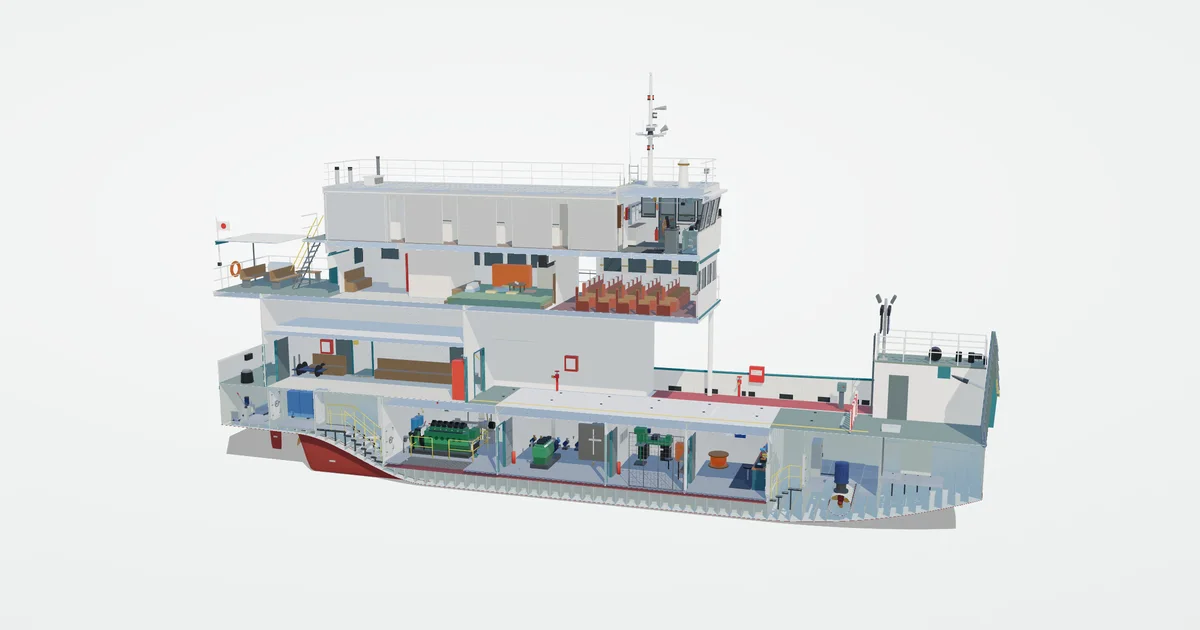
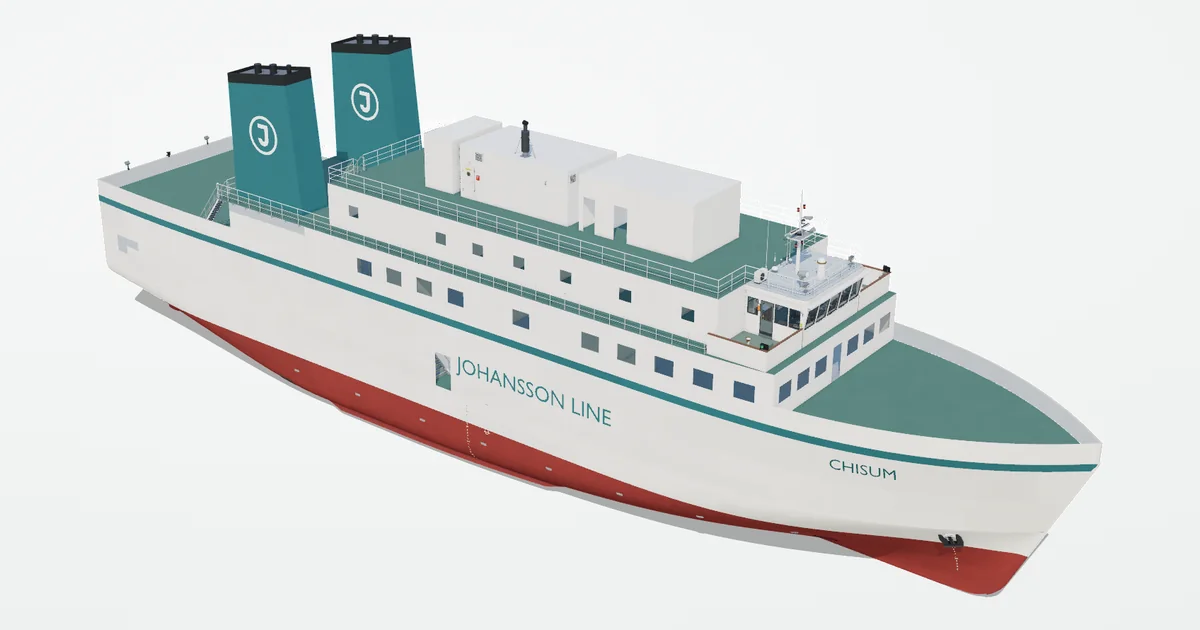
Homepage: the Chisum's card shows the 68 m ship, with her words
The owner, with a picture of the card: "the website neeeds updating too this is not the right image".
The card still showed the first Chisum, 34.5 m, cut open, and said so.

- assets/images/ferry/chisum-card.webp: retaken from the page as it first looks at her (bow quarter,
  chrome hidden), drawn on the Mac's graphics card (ANGLE Metal, Apple M1 Pro).
- config.js: 68 m, walk aboard and the bridge in the summary, the features and the first thing to
  try; 93 rooms and 16 stairs; "Work in progress" for "First look". project-explorer.js: the
  picture's alt text.
- ferry/tools/card.cjs, card_crop.py: the shot and its framing, so it is retaken the same way;
  the README's recipe was for the 34.5 m ship.

Looked at on the homepage served locally: 7 cards, the picture and words in place. Not run: the
homepage's own review (tools/office-home). Not published.

diff --git a/assets/js/project-explorer.js b/assets/js/project-explorer.js
@@ -12,7 +12,7 @@
     if (p.preview === 'world') return '<figure class="px-preview px-world"><img id="px-town-view" src="/johansson-town/assets/images/title/title-day-portrait.webp" width="540" height="960" loading="lazy" decoding="async" alt="Johansson World’s seaside street, shops and ferry in daylight"><div class="px-scene-title"><span>OKINAWA · 1997</span><b>A little island life.</b></div><div class="px-day-switch" role="group" aria-label="Town artwork lighting"><button type="button" data-town-light="day" aria-pressed="true">Day</button><button type="button" data-town-light="night" aria-pressed="false">Night</button></div><figcaption id="px-town-caption">Town artwork · day</figcaption></figure>';
     if (p.preview === 'sakura') return '<figure class="px-preview px-sakura"><img src="/sakura/images/hero-serving-800.webp" width="800" height="500" loading="lazy" decoding="async" alt="Thuận behind the till at Sakura Shōten, smiling at a customer across the counter"><figcaption>Screenshot from the game</figcaption></figure>';
     if (p.preview === 'camera') return '<figure class="px-preview px-camera"><picture><source media="(max-width:760px)" srcset="/camera/card-narrow.webp" width="720" height="660"><img src="/camera/card.webp" width="1200" height="630" loading="lazy" decoding="async" alt="One café photo in five slices, each in a different Look: Natural, Pocket, Manga, Woodblock print and Watercolour, with Fuji’s die-cut sticker waving"></picture></figure>';
-    if (p.preview === 'ferry') return '<figure class="px-preview px-ferry"><img src="/assets/images/ferry/chisum-card.webp" width="1200" height="630" loading="lazy" decoding="async" alt="The ferry Chisum cut open along her length, showing her engine room, car deck, saloon and cabins"></figure>';
+    if (p.preview === 'ferry') return '<figure class="px-preview px-ferry"><img src="/assets/images/ferry/chisum-card.webp" width="1200" height="630" loading="lazy" decoding="async" alt="The ferry Chisum seen from above her port bow: a white hull with a red bottom, JOHANSSON LINE on her side, two teal funnels aft and her bridge forward"></figure>';
     if (p.preview === 'studio') return '<figure class="px-preview px-studio"><img src="/avatar-creator/docs/studio-desktop.png" width="1280" height="800" loading="lazy" decoding="async" alt="Johansson Studio character editor showing a braided character and facial expression options"><figcaption>From the character editor</figcaption></figure>';
     if (p.preview === 'maintenance') return '<div class="px-preview px-maintenance"><div class="px-mini-window"><div class="px-mini-title"><span class="px-mini-mark">M</span><b>Workshop programme</b><span class="px-mini-label">DEMO</span></div><div class="px-mini-metrics"><div><strong>04</strong><span>Assets</span></div><div><strong id="px-preview-due">02</strong><span>Checks due</span></div><div><strong>01</strong><span>Open action</span></div></div><div class="px-mini-task"><span><b>Cooling water pump</b><small>Visual inspection</small></span><button type="button" id="px-complete-preview" aria-label="Try the preview: mark the sample pump inspection complete">Mark complete</button></div><p class="px-preview-note" id="px-preview-feedback" role="status" aria-live="polite">Try one check here. This preview does not save a record.</p></div></div>';
     if (p.preview === 'course') return '<figure class="px-preview px-course"><div class="px-lesson-tag">SJÖSKOLAN / ELTEKNIK</div><svg viewBox="0 0 440 165" role="img" aria-label="Simple DC circuit illustration with a supply, resistor and current meter"><g fill="none" stroke="currentColor" stroke-width="3" stroke-linecap="round" stroke-linejoin="round"><path d="M62 73V34h110m94 0h108v96H62V95M48 73h28M54 85h16M48 95h28M172 34l8-10 12 20 12-20 12 20 12-20 12 20 12-20 8 10h6"/><circle cx="221" cy="130" r="22" fill="#e9f2ec"/><path d="M212 137l9-18 9 18m-14-6h10"/></g><text x="58" y="56" font-size="15" fill="currentColor">+</text><text x="207" y="75" font-size="16" fill="currentColor">R</text></svg><div class="px-lesson-topics"><span>01 · Understand</span><span>02 · Measure</span><span>03 · Apply</span></div><figcaption>Learn the principle. Practise the measurement.</figcaption></figure>';

diff --git a/config.js b/config.js
@@ -101,7 +101,7 @@ const CONFIG = {
     {
       title: "Chisum",
       description:
-        "A 34.5 m car and passenger ferry as a 3D model: turn her, lift her decks apart, cut her open along her length and name every room aboard. A first look.",
+        "A 68 m car and passenger ferry as a 3D model, built as a yard builds a ship: turn her, lift her decks apart, cut her open, walk aboard, and see what every fitting on her bridge is and what feeds it.",
       url: "/ferry/",
       icon: "anchor",
       tags: ["3D Model", "Ferry", "Engineering"],
@@ -281,17 +281,17 @@ CONFIG.projectExplorer = [
     "category": "explore",
     "title": "Chisum",
     "eyebrow": "A FERRY, DECK BY DECK",
-    "summary": "A 34.5 m car and passenger ferry in 3D. Turn her, lift her six decks apart, cut her open along her length and name every room aboard.",
+    "summary": "A 68 m car and passenger ferry in 3D. Turn her, lift her six decks apart, cut her open along her length, or walk aboard and work her bridge.",
     "url": "/ferry/",
     "action": "Explore the ferry",
     "format": "3D model viewer",
     "language": "English",
-    "status": "First look",
-    "firstTry": "Drag the Cut slider to open her from the starboard side and look into the engine room, then tap a room to name it.",
+    "status": "Work in progress",
+    "firstTry": "Press Walk aboard, choose the wheelhouse under Go to, then tap a lever or a screen to see what it is and what feeds it.",
     "features": [
       "Lift her six decks apart, from the double bottom to the compass deck",
-      "Cut her open along her length to see inside",
-      "50 named rooms, each with a note on what it is for"
+      "Walk aboard: 93 named rooms, 16 stairs, doors that open as you come to them",
+      "Her navigation bridge fitted out: tap a fitting to see what it is, what feeds it and what it talks to"
     ],
     "preview": "ferry"
   },

diff --git a/ferry/tools/card_crop.py b/ferry/tools/card_crop.py
@@ -1,0 +1,22 @@
+"""
+card_crop.py shot.png card.webp: the homepage card's picture from card.cjs's shot. Finds her outline against the page's
+backdrop, frames it at 1200 : 630 with a margin and writes a 1200 x 630 WebP (quality 84). Pillow and numpy; no Blender.
+"""
+import sys
+import numpy as np
+from PIL import Image
+
+src, out = sys.argv[1], sys.argv[2]
+im = Image.open(src).convert('RGB')
+a = np.asarray(im).astype(int)
+H, W, _ = a.shape
+# the backdrop changes down the page: each row's colour is taken from its two ends
+bg = (a[:, :40].mean(1) + a[:, -40:].mean(1)) / 2
+ys, xs = np.nonzero(np.abs(a - bg[:, None, :]).sum(2) > 40)
+x0, x1, y0, y1 = xs.min(), xs.max(), ys.min(), ys.max()
+w = max(x1 - x0, (y1 - y0) * 1200 / 630) * 1.12
+h = w * 630 / 1200
+left = min(max(int(round((x0 + x1) / 2 - w / 2)), 0), W - int(w))
+top = min(max(int(round((y0 + y1) / 2 - h / 2)), 0), H - int(h))
+im.crop((left, top, left + int(w), top + int(h))).resize((1200, 630), Image.LANCZOS).save(out, 'WEBP', quality=84, method=6)
+print(f'her outline {x0},{y0} to {x1},{y1} of {W} x {H}; framed {int(w)} x {int(h)} at {left},{top}; wrote {out}')

diff --git a/ferry/tools/README.md b/ferry/tools/README.md
@@ -7,7 +7,8 @@ Small helpers used while building her; none is part of the page or of the build'
 | `still.py` | A Cycles still of the built ship from a place given in the ship's terms (metres from the transom, to port, above the keel) | `blender -b <built.blend> -P ferry/tools/still.py -- --out x.png --eye 51.2,5.1,14.0 --aim 52.0,5.9,13.6 [--lens 35] [--samples 32] [--size 1300x900] [--lamp yard,x,h --watts 800]` (inside a room it needs `--lamp`: no light gets in otherwise) |
 | `onfoot-wing.cjs` | The page itself, on foot on the port bridge wing, as an upright tablet shows it; opens the hose box | `node ferry/tools/onfoot-wing.cjs /tmp/out` (site served on port 8765) |
 | `onfoot-pantry.cjs` | The page on foot at the pantry, its doors shut and open | `node ferry/tools/onfoot-pantry.cjs /tmp/out` |
+| `card.cjs`, `card_crop.py` | The homepage card's picture: her whole length from the bow quarter, the page's chrome hidden, drawn on the machine's own graphics card when Chromium can reach it (it says which it got) | `node ferry/tools/card.cjs shot.png`, then `python3 ferry/tools/card_crop.py shot.png assets/images/ferry/chisum-card.webp` |
 | `svgshot.cjs` | A picture of a yard drawing (SVG), whole or a part at twice the size | `node ferry/tools/svgshot.cjs sheet.svg out.png [x y w h]` |
 
-The `.cjs` helpers start Chromium with software drawing, as the page checks do: they prove a thing is there and works, not how it
+The `onfoot` and `svgshot` helpers start Chromium with software drawing, as the page checks do: they prove a thing is there and works, not how it
 looks on a real graphics card.

diff --git a/ferry/README.md b/ferry/README.md
@@ -923,10 +923,12 @@ they are lit:
   `/assets/js/project-explorer.js`; `CONFIG.projects` has her too. The homepage never loads the 3D model (its design
   review forbids it): the card shows a picture, `/assets/images/ferry/chisum-card.webp`. It lives under `assets/`,
   not here, because the homepage review's sparse checkout does not include `ferry/`.
-- **Retake the card picture when the model changes.** It is this page's cut view from the starboard side with the
-  chrome hidden and the lens centred (`camera.clearViewOffset()`, aspect 1200 : 630): Cut 0.5, the camera set through
-  `window.__ferry.look` with its target at (0, 6.3, 1.4) and the eye 50 m from it toward (−1, 0.2, 0.3), shot at
-  1200 × 630 at scale 2 and reduced to a 1200 × 630 WebP (quality 84). Retaken on 10 November with her own hull. The
+- **Retake the card picture when the model changes.** `node ferry/tools/card.cjs shot.png` (the site served on port
+  8765) opens this page with its chrome hidden and the lens centred, looks at her from the bow quarter as the page
+  first does (`HOME_DIR`), and shoots 1200 × 630 at scale 2 on the machine's own graphics card;
+  `python3 ferry/tools/card_crop.py shot.png assets/images/ferry/chisum-card.webp` frames her outline and writes the
+  1200 × 630 WebP (quality 84). Retaken on 11 November 2026 with the 68 m ship, on an Apple M1 Pro; until then the
+  card showed the first Chisum, 34.5 m, cut open, with the words that went with her. The
   counts in `tools/office-home/review.browser.mjs` (7 cards; Explore 2, Create 3, Learn 2) follow
   `CONFIG.projectExplorer`.
 
